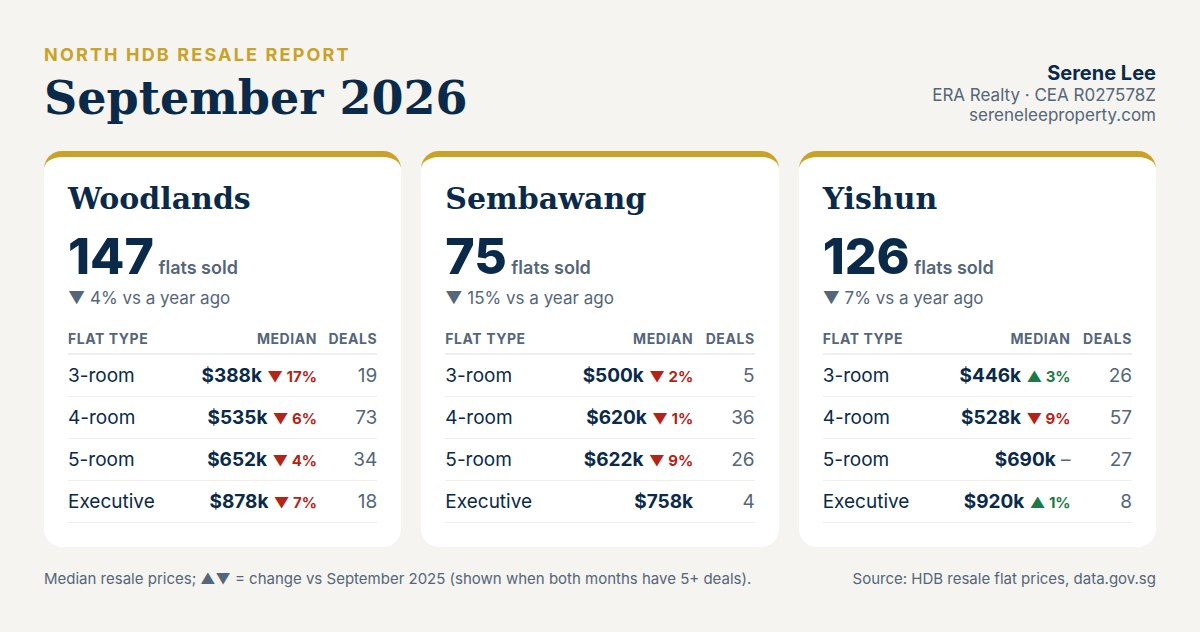
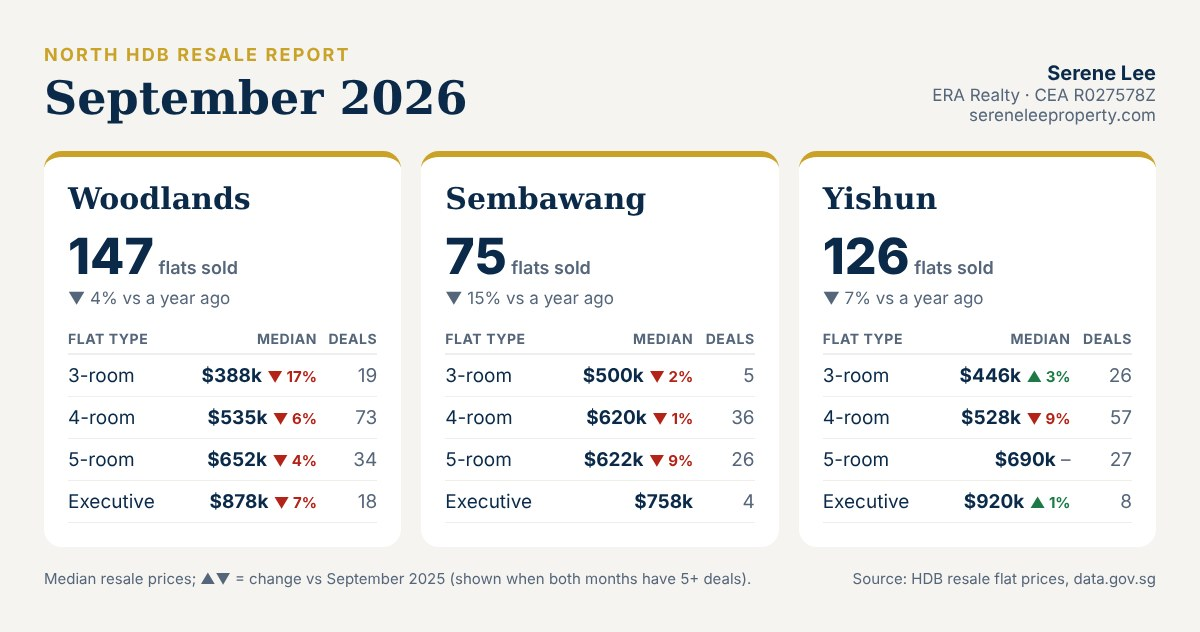
North HDB report: ERA AI disclaimer, paste-ready email page, Kit form ID placeholder (new Kit account)
Claude-Session: https://claude.ai/code/session_01VsXXjWxyUqvGn8MiMZp5Kx

diff --git a/assets/email/north-report-2026-09.html b/assets/email/north-report-2026-09.html
@@ -1,0 +1,22 @@
+<!doctype html><html><head><meta charset="utf-8"><meta name="robots" content="noindex">
+<title>Email: North HDB resale September 2026</title></head>
+<body style="max-width:640px;margin:24px auto;padding:0 16px;font-family:Arial,Helvetica,sans-serif;color:#1f2937;line-height:1.55">
+<div style="background:#fff8e1;border:1px solid #c9a227;border-radius:8px;padding:10px 14px;font-size:13px;margin-bottom:22px">
+<b>For Serene (don't copy this box):</b> Subject: <b>North HDB resale: September 2026 (348 flats sold)</b><br>Preview text: Woodlands, Sembawang &amp; Yishun: flats sold, median prices and the month&#x27;s top sale.<br>
+Copy everything below the line into a new Kit broadcast. Send to: subscribers of your North HDB report form.</div>
+<hr>
+<h1 style="font-size:24px;color:#0b2a4a">North HDB resale: September 2026</h1>
+<p>Hi there,</p>
+<p>Here's what HDB flats in Woodlands, Sembawang and Yishun resold for in September 2026, straight from HDB's official data.</p>
+<p><a href="https://sereneleeproperty.com/market-map?region=North&amp;utm_source=email&utm_medium=newsletter&utm_campaign=north-2026-09"><img src="https://sereneleeproperty.com/assets/email/north-report-2026-09.jpg" alt="North HDB resale report September 2026" style="width:100%;max-width:600px;border-radius:8px"></a></p>
+<h2 style="font-size:19px;color:#0b2a4a">3 things to know</h2><ul><li>348 HDB flats resold across the three towns in September 2026 (down 8% on September 2025). Woodlands was busiest with 147.</li><li>Biggest 4-room move: Yishun median $528k, down 8.7% on a year ago (57 deals vs 72). Medians mix flats of different ages, so check your own block.</li><li>Top sale: a multi-generation flat at Blk 666 Yishun Ave 4, Yishun (floor 10-12, 151 sqm) for $1,212,000.</li></ul>
+<h2 style="font-size:19px;color:#0b2a4a">What's your flat worth?</h2>
+<p>Town medians mix flats of different ages and sizes. For your own block, and what you could move to next, get a free personal plan from me.</p>
+<p><a href="https://sereneleeproperty.com/flat-report?utm_source=email&utm_medium=newsletter&utm_campaign=north-2026-09" style="display:inline-block;background:#c9a227;color:#0b2a4a;font-weight:bold;padding:12px 22px;border-radius:6px;text-decoration:none">Get My Free Flat Report</a></p>
+<p>Town guides: <a href="https://sereneleeproperty.com/woodlands?utm_source=email&utm_medium=newsletter&utm_campaign=north-2026-09" style="color:#0b2a4a">Woodlands</a> · <a href="https://sereneleeproperty.com/sembawang?utm_source=email&utm_medium=newsletter&utm_campaign=north-2026-09" style="color:#0b2a4a">Sembawang</a> · <a href="https://sereneleeproperty.com/yishun?utm_source=email&utm_medium=newsletter&utm_campaign=north-2026-09" style="color:#0b2a4a">Yishun</a> · <a href="https://sereneleeproperty.com/right-sizing-north?utm_source=email&utm_medium=newsletter&utm_campaign=north-2026-09" style="color:#0b2a4a">Right-sizing guide</a></p>
+<p>Questions? Just reply to this email or <a href="https://wa.me/6580868568?text=Hi%20Serene%2C%20I%20read%20your%20North%20HDB%20report." style="color:#0b2a4a">WhatsApp me</a>.</p>
+<p>Serene Lee</p>
+<hr style="border:none;border-top:1px solid #e6e2d8">
+<p style="font-size:12px;color:#6b7280">Serene Lee · ERA Realty Network Pte Ltd (L3002382K) · CEA Reg. R027578Z · +65 8086 8568. Figures are past HDB resale transactions (data.gov.sg), registered in the month shown; they are not a valuation.</p>
+<p style="font-size:12px;color:#6b7280;font-style:italic">This document contains AI-assisted analysis provided for general informational purposes only. It does not constitute formal legal, financial, or certified property valuation advice. Recipients shall not rely on this information unless they have independently verified this information to their satisfaction.</p>
+</body></html>

diff --git a/ig.html b/ig.html
@@ -101,7 +101,7 @@
       <strong>Monthly North HDB report</strong>
       <p>Woodlands, Sembawang &amp; Yishun resale prices in your inbox, once a month. Free.</p>
       <form id="igMail"><input type="email" id="igEmail" placeholder="Your email" required><button class="btn btn-gold" type="submit">Join</button></form>
-      <div class="ig-ok" id="igOk">&#10003; You're in. Check your inbox to confirm your email.</div>
+      <div class="ig-ok" id="igOk">&#10003; You're in. Look out for the next report in your inbox.</div>
     </div>
   </div>
 
@@ -117,9 +117,10 @@
     if(!/^[^\s@]+@[^\s@]+\.[^\s@]+$/.test(em))return;
     fetch("https://script.google.com/macros/s/AKfycbzxomLsd_yvi8pEaXvHK3qddAPdnX7889wnjU4i5AoxXIv7dQv7h973bZ9gwQq_1dk/exec",{method:"POST",mode:"no-cors",headers:{"Content-Type":"text/plain"},
       body:JSON.stringify({formType:"subscribe",email:em,source:"/ig · Monthly North HDB report",page:location.href})}).catch(function(){});
-    // Also add to Kit (form "Newsletter site", tag north-hdb-report) so the monthly email can be sent from Kit.
-    var kb=new URLSearchParams();kb.append("email_address",em);kb.append("tags[]","24833032");
-    fetch("https://app.kit.com/forms/9982876/subscriptions",{method:"POST",mode:"no-cors",body:kb}).catch(function(){});
+    // Also add to Serene's Kit form for the monthly email (set KIT_NORTH_FORM_ID; blank = off).
+    var KIT_NORTH_FORM_ID="";
+    if(KIT_NORTH_FORM_ID){var kb=new URLSearchParams();kb.append("email_address",em);
+      fetch("https://app.kit.com/forms/"+KIT_NORTH_FORM_ID+"/subscriptions",{method:"POST",mode:"no-cors",body:kb}).catch(function(){});}
     track("ig_hub_subscribe",{});f.style.display="none";document.getElementById("igOk").classList.add("show");});
 })();
 </script>

diff --git a/main.js b/main.js
@@ -303,12 +303,12 @@ document.addEventListener('DOMContentLoaded', function () {
       subscribeBtn.disabled = true;
       subscribeBtn.textContent = 'Subscribing...';
 
-      // Monthly North HDB report readers also go to Kit (form "Newsletter site", tag north-hdb-report).
-      if (source.indexOf('North HDB report') > -1) {
+      // Monthly North HDB report readers also go to Serene's Kit form (set KIT_NORTH_FORM_ID; blank = off).
+      var KIT_NORTH_FORM_ID = '';
+      if (KIT_NORTH_FORM_ID && source.indexOf('North HDB report') > -1) {
         var kb = new URLSearchParams();
         kb.append('email_address', email);
-        kb.append('tags[]', '24833032');
-        fetch('https://app.kit.com/forms/9982876/subscriptions', { method: 'POST', mode: 'no-cors', body: kb }).catch(function () {});
+        fetch('https://app.kit.com/forms/' + KIT_NORTH_FORM_ID + '/subscriptions', { method: 'POST', mode: 'no-cors', body: kb }).catch(function () {});
       }
 
       fetch(SUBSCRIBE_WEBHOOK_URL, {

diff --git a/flat-report.html b/flat-report.html
@@ -206,6 +206,7 @@
     </div>
 
     <p class="fr-src">Prices are past resale transactions from HDB (data.gov.sg), refreshed weekly. They are not a valuation of your flat. Your personal plan is an estimate for planning only, not financial advice.</p>
+    <p class="fr-src"><em>This document contains AI-assisted analysis provided for general informational purposes only. It does not constitute formal legal, financial, or certified property valuation advice. Recipients shall not rely on this information unless they have independently verified this information to their satisfaction.</em></p>
   </div>
 </section>
 

diff --git a/scripts/north_report.py b/scripts/north_report.py
@@ -20,6 +20,8 @@ TOWNS = ["woodlands", "sembawang", "yishun"]
 FT = {"2": "2-room", "3": "3-room", "4": "4-room", "5": "5-room", "E": "Executive", "M": "Multi-gen"}
 SITE = "https://sereneleeproperty.com"
 SGT = timezone(timedelta(hours=8))
+# Required verbatim by ERA AI Usage Governance Policy v1.0 for AI-assisted analytical reports.
+AI_DISCLAIMER = ("This document contains AI-assisted analysis provided for general informational purposes only. It does not constitute formal legal, financial, or certified property valuation advice. Recipients shall not rely on this information unless they have independently verified this information to their satisfaction.")
 
 
 def last_full_month():
@@ -106,6 +108,7 @@ def build(m):
     render_card(out, os.path.join(ROOT, img_rel))
     kit = kit_tree(out)
     json.dump(kit, open(os.path.join(ROOT, "data", "north-report", m + "-kit.json"), "w"), indent=1, ensure_ascii=False)
+    open(os.path.join(ROOT, "assets", "email", f"north-report-{m}.html"), "w").write(email_html(out, kit))
     return out, kit
 
 
@@ -201,11 +204,41 @@ def kit_tree(o):
         P(T("Serene Lee · ERA Realty Network Pte Ltd (L3002382K) · CEA Reg. R027578Z · +65 8086 8568. "
             "Figures are past HDB resale transactions (data.gov.sg), registered in the month shown; they are not a valuation.",
             fontSize=12, color="#6B7280")),
+        P(T(AI_DISCLAIMER, fontSize=12, color="#6B7280", italic=True)),
     ]
     subject = f"North HDB resale: {o['label']} ({o['total']} flats sold)"
     preview = f"Woodlands, Sembawang & Yishun: flats sold, median prices and the month's top sale."
     return {"subject": subject, "preview_text": preview, "content_tree": tree,
-            "tag_id": 24833032, "email_template_id": 5567270}
+            }
+
+
+def email_html(o, kit):
+    """Paste-ready version: Serene opens it in a browser, selects all, copies, and pastes into a new Kit broadcast."""
+    u = o["utm"]; e = html.escape
+    lis = "".join(f"<li>{e(h)}</li>" for h in o["highlights"])
+    a = lambda href, t: f'<a href="{href}" style="color:#0b2a4a">{t}</a>'
+    return f"""<!doctype html><html><head><meta charset="utf-8"><meta name="robots" content="noindex">
+<title>Email: North HDB resale {e(o['label'])}</title></head>
+<body style="max-width:640px;margin:24px auto;padding:0 16px;font-family:Arial,Helvetica,sans-serif;color:#1f2937;line-height:1.55">
+<div style="background:#fff8e1;border:1px solid #c9a227;border-radius:8px;padding:10px 14px;font-size:13px;margin-bottom:22px">
+<b>For Serene (don't copy this box):</b> Subject: <b>{e(kit['subject'])}</b><br>Preview text: {e(kit['preview_text'])}<br>
+Copy everything below the line into a new Kit broadcast. Send to: subscribers of your North HDB report form.</div>
+<hr>
+<h1 style="font-size:24px;color:#0b2a4a">North HDB resale: {e(o['label'])}</h1>
+<p>Hi there,</p>
+<p>Here's what HDB flats in Woodlands, Sembawang and Yishun resold for in {e(o['label'])}, straight from HDB's official data.</p>
+<p><a href="{SITE}/market-map?region=North&amp;{u}"><img src="{o['image']}" alt="North HDB resale report {e(o['label'])}" style="width:100%;max-width:600px;border-radius:8px"></a></p>
+<h2 style="font-size:19px;color:#0b2a4a">3 things to know</h2><ul>{lis}</ul>
+<h2 style="font-size:19px;color:#0b2a4a">What's your flat worth?</h2>
+<p>Town medians mix flats of different ages and sizes. For your own block, and what you could move to next, get a free personal plan from me.</p>
+<p><a href="{SITE}/flat-report?{u}" style="display:inline-block;background:#c9a227;color:#0b2a4a;font-weight:bold;padding:12px 22px;border-radius:6px;text-decoration:none">Get My Free Flat Report</a></p>
+<p>Town guides: {a(f"{SITE}/woodlands?{u}","Woodlands")} · {a(f"{SITE}/sembawang?{u}","Sembawang")} · {a(f"{SITE}/yishun?{u}","Yishun")} · {a(f"{SITE}/right-sizing-north?{u}","Right-sizing guide")}</p>
+<p>Questions? Just reply to this email or {a("https://wa.me/6580868568?text=Hi%20Serene%2C%20I%20read%20your%20North%20HDB%20report.","WhatsApp me")}.</p>
+<p>Serene Lee</p>
+<hr style="border:none;border-top:1px solid #e6e2d8">
+<p style="font-size:12px;color:#6b7280">Serene Lee · ERA Realty Network Pte Ltd (L3002382K) · CEA Reg. R027578Z · +65 8086 8568. Figures are past HDB resale transactions (data.gov.sg), registered in the month shown; they are not a valuation.</p>
+<p style="font-size:12px;color:#6b7280;font-style:italic">{e(AI_DISCLAIMER)}</p>
+</body></html>"""
 
 
 if __name__ == "__main__":
